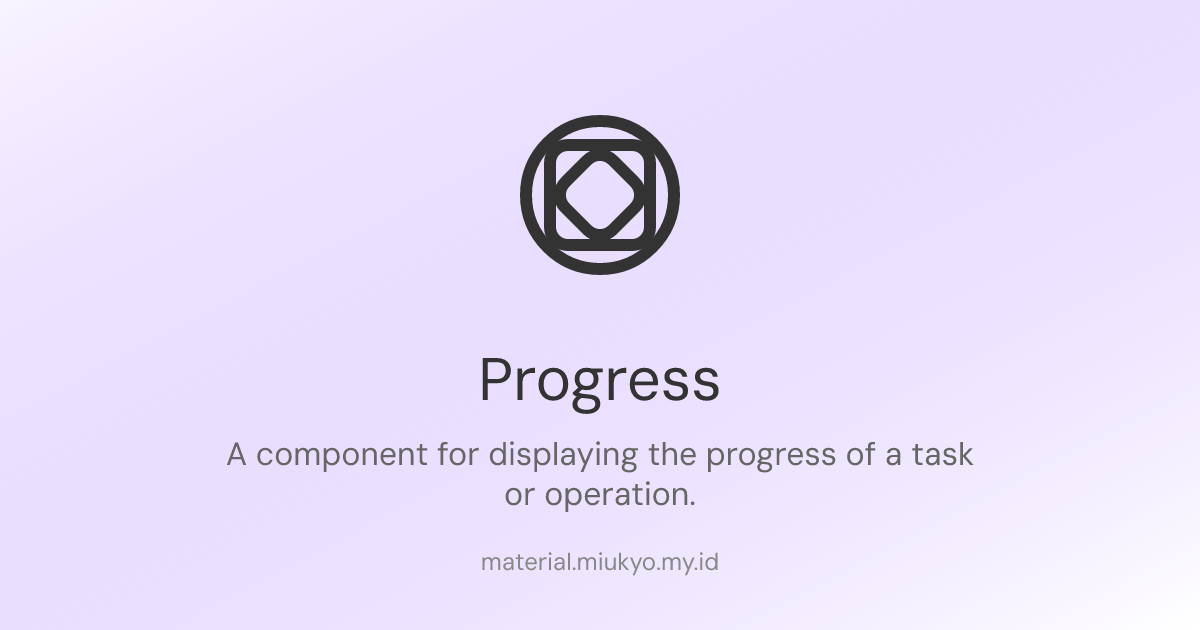
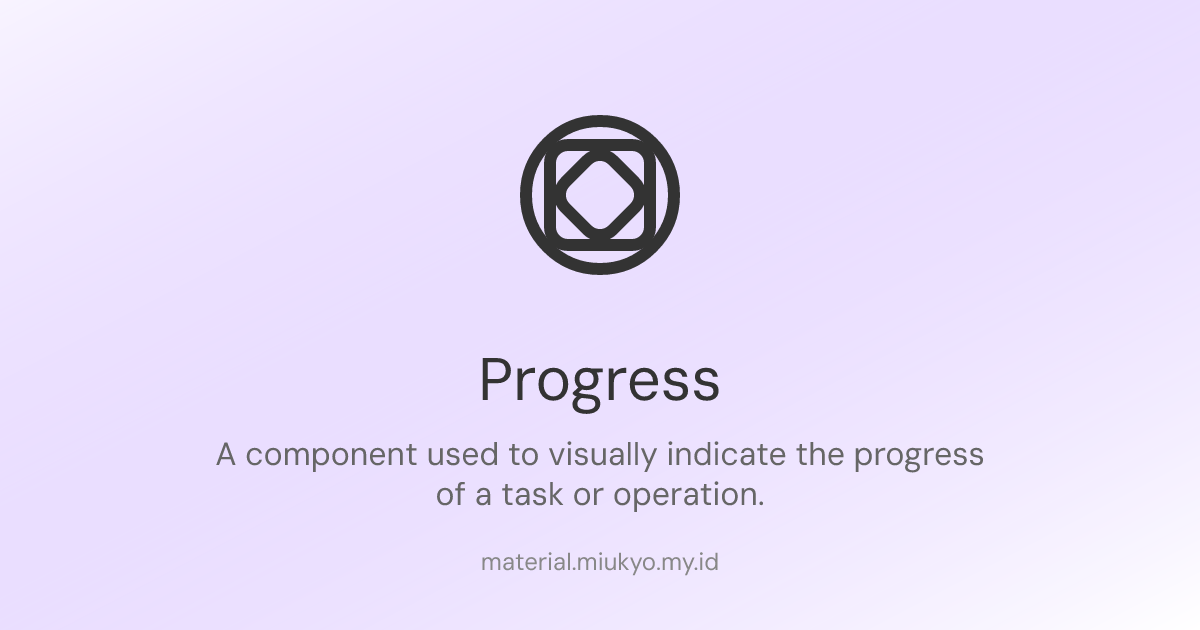
fix: links

Changed region(s): [[0.185, 0.6937, 0.8325, 0.8143]]

diff --git a/apps/www/utils/docs-index.ts b/apps/www/utils/docs-index.ts
@@ -1,5 +1,5 @@
 // This file is auto-generated. Do not edit manually.
-// Generated on 2025-06-26T07:08:50.353Z
+// Generated on 2025-06-27T04:04:37.351Z
 
 /**
  * Documentation index structure with categories and their documents
@@ -25,6 +25,11 @@ const docsIndex: DocIndex = {
       title: "Installation",
       description: "A guide to installing and setting up the necessary components for your project.",
       path: "/docs/get-started/installation",
+    },
+    {
+      title: "Theming",
+      description: "Learn how to customize and apply themes to your React Material application.",
+      path: "/docs/get-started/theming",
     },
   ],
   "components": [
@@ -93,7 +98,7 @@ const docsIndex: DocIndex = {
     },
     {
       title: "Loading",
-      description: "Provides visual feedback to users during processes that take time, such as data fetching, form submissions, or any operation that requires waiting.",
+      description: "A component designed to provides visual feedback to users during processes that take time.",
       path: "/docs/components/informatives/loading",
       group: "informatives",
       groupTitle: "Informatives",
@@ -107,14 +112,14 @@ const docsIndex: DocIndex = {
     },
     {
       title: "Progress",
-      description: "Used to visually indicate the progress of a task or operation, providing feedback to users about the current state of the operation.",
+      description: "A component used to visually indicate the progress of a task or operation.",
       path: "/docs/components/informatives/progress",
       group: "informatives",
       groupTitle: "Informatives",
     },
     {
       title: "Radio",
-      description: "Designed to present a set of options where users can select only one at a time.",
+      description: "A radio buttons that allows users to select one option from a set of choices, ensuring only one selection at a time.",
       path: "/docs/components/inputs/radio",
       group: "inputs",
       groupTitle: "Inputs",

diff --git a/apps/www/components/misc/seo.tsx b/apps/www/components/misc/seo.tsx
@@ -27,7 +27,7 @@ export default function SEO({
   const fullTitle = (title || defaultTitle) + ` - ${description}`;
   const currentUrl =
     canonicalUrl ||
-    `${process.env.NEXT_PUBLIC_SITE_URL || "https://yourdomain.com"}${router.asPath}`;
+    `${process.env.NEXT_PUBLIC_SITE_URL || "https://material.miukyo.my.id"}${router.asPath}`;
 
   // Get the appropriate OG image URL based on the current page path
   const finalOgImage =
